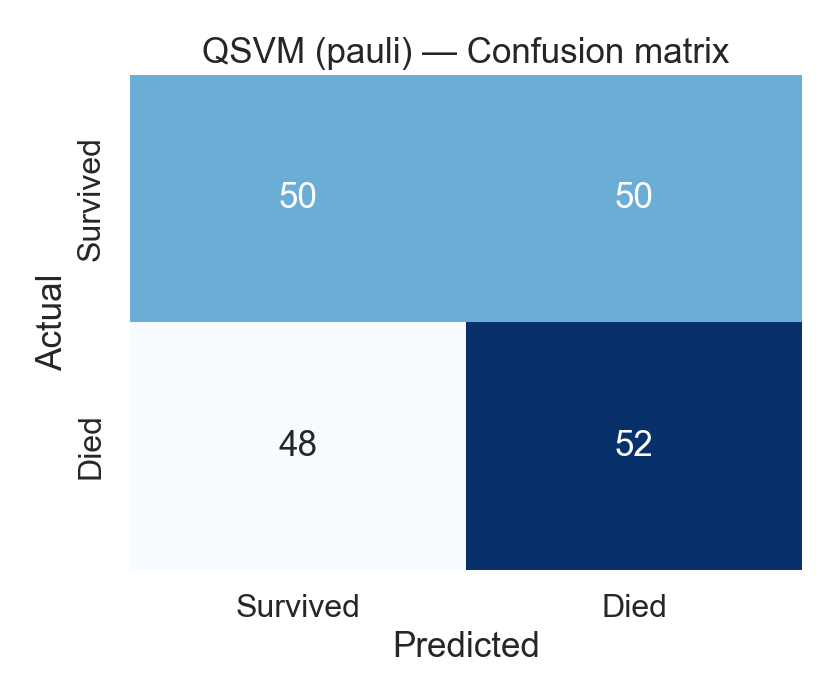
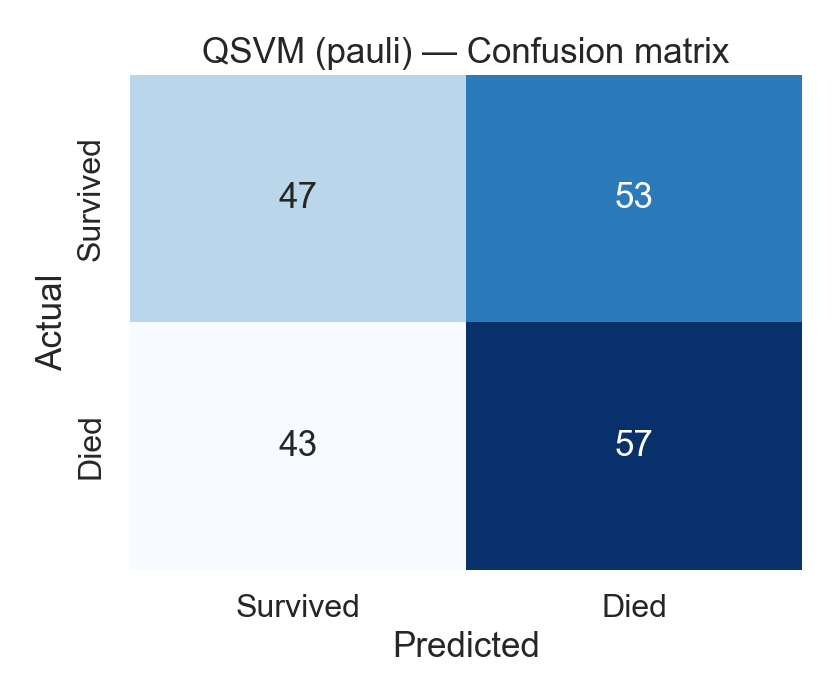
docs: regenerate results/figures on current stack and align README
Re-run the full pipeline on Python 3.11 with qiskit 1.4.5, qiskit-ml 0.8.4,
scikit-learn 1.8, pandas 3.0, numpy 2.4. Refresh results.json (now with CI and
CV fields) and all figures, including the new ROC-AUC error-bar chart.

README: fix the Qiskit badge (was 2.x, project runs on 1.x), document the
distinct Pauli map, add an Uncertainty estimates section, rebuild the results
table with 95% CIs, and rewrite Honest findings to match the regenerated
numbers — every quantum model's ROC-AUC CI now includes 0.5 (indistinguishable
from random here) while the classical CV means confirm a stable signal.

Changed region(s): [[0.1548, 0.09, 0.9595, 0.48], [0.7429, 0.6, 0.7738, 0.66]]

diff --git a/README.md b/README.md
@@ -2,7 +2,7 @@
 
 [![CI](https://github.com/TirtheshJani/QML-Healthcare-Diagnostics/actions/workflows/ci.yml/badge.svg)](https://github.com/TirtheshJani/QML-Healthcare-Diagnostics/actions/workflows/ci.yml)
 [![Python 3.10+](https://img.shields.io/badge/python-3.10+-blue.svg)](https://www.python.org/downloads/)
-[![Qiskit 2.x](https://img.shields.io/badge/Qiskit-2.x-6929C4.svg)](https://qiskit.org/)
+[![Qiskit 1.x](https://img.shields.io/badge/Qiskit-1.x-6929C4.svg)](https://qiskit.org/)
 [![License: MIT](https://img.shields.io/badge/License-MIT-yellow.svg)](LICENSE)
 [![Code style: black](https://img.shields.io/badge/code%20style-black-000000.svg)](https://github.com/psf/black)
 [![Linter: ruff](https://img.shields.io/endpoint?url=https://raw.githubusercontent.com/charliermarsh/ruff/main/assets/badge/v2.json)](https://github.com/astral-sh/ruff)
@@ -120,7 +120,7 @@ python scripts/reproduce_all.py --n 400 --k 8 --reps 2 --maxiter 100
 │   ├── train_qsvm.py          # QSVM only (--feature-maps zz pauli custom)
 │   ├── train_vqc_qnn.py       # VQC + QNN only
 │   └── update_readme_table.py # Refresh the results table in this README
-├── tests/                     # pytest — 20 deterministic tests, < 5 s
+├── tests/                     # pytest — 28 deterministic tests, fast
 ├── reports/
 │   ├── figures/               # All generated PNGs (committed)
 │   └── results.json           # Latest metrics dump
@@ -177,8 +177,16 @@ All three maps share the same interface: `build_feature_map(name, n_features, re
 | Name | Circuit | Reference |
 |------|---------|-----------|
 | `zz` | `ZZFeatureMap` — H layer → RZ(2φ(x)) → ZZ entanglers | Havlíček et al., 2019 |
-| `pauli` | `PauliFeatureMap` with `paulis=["Z", "ZZ"]` | Qiskit reference |
+| `pauli` | `PauliFeatureMap` with `paulis=["Z", "XX"]` — X-basis entanglement | Qiskit reference |
 | `custom` | H → RZ(2x) per qubit → CZ entanglement (ring) — explicit non-Clifford map | This repo |
+
+> **Why `["Z", "XX"]` and not `["Z", "ZZ"]`?** `ZZFeatureMap` is *exactly*
+> `PauliFeatureMap(paulis=["Z", "ZZ"])`, so the two would produce identical
+> kernels and identical results. The `pauli` map deliberately uses `XX`
+> entanglement so the three feature maps form a genuine comparison rather than
+> two duplicates plus one. A regression test
+> (`tests/test_quantum_kernels.py::test_zz_and_pauli_feature_maps_differ`) locks
+> this in.
 
 The custom map applies a Hadamard to all qubits, encodes each feature as
 `RZ(2xᵢ)`, then entangles adjacent pairs with `CZ` gates. Unlike ZZFeatureMap,
@@ -216,37 +224,58 @@ K(x, x') = |⟨φ(x)|φ(x')⟩|². The kernel matrix is guaranteed PSD by
 
 Both use the `StatevectorSampler` primitive from `qiskit.primitives` for
 exact statevector simulation. The QNN uses a parity interpret function
-(`x % 2`) to produce a 2-class probability output.
+(`x % 2`) to produce a 2-class probability output, trained with one-hot
+cross-entropy loss (`NeuralNetworkClassifier(loss="cross_entropy", one_hot=True)`),
+which is required for a 2-output `SamplerQNN`.
+
+### Uncertainty estimates
+
+Point metrics from a single split can be misleading on a subsampled test set
+(N = 200 for the quantum models). Two complementary checks are reported:
+
+- **Bootstrap confidence intervals (all models).** The test predictions are
+  resampled with replacement (1000 seeded draws) to produce 95% CIs for ROC-AUC,
+  PR-AUC, F1, balanced accuracy, and accuracy. These appear next to ROC-AUC in
+  the results table and as error bars in
+  `reports/figures/roc_auc_ci_comparison.png`. No retraining is needed, so the
+  same procedure applies uniformly to classical and quantum models.
+- **5-fold stratified cross-validation (classical only).** The classical
+  baselines are cheap to refit, so they also report CV mean ± std for ROC-AUC,
+  F1, and balanced accuracy. The quantum models are *not* cross-validated: the
+  fidelity kernel is O(N²) per fold, which is prohibitive on a CPU simulator.
+  This asymmetry is intentional and called out here so the comparison stays
+  honest.
 
 ---
 
 ## Results
 
 > Numbers come from the most recent `reports/results.json` produced by
-> `python scripts/reproduce_all.py`. The synthetic-fallback dataset is used
-> when Kaggle credentials are absent — with real WiDS data the absolute values
-> shift slightly, but **the relative ordering of classical vs. quantum is the
-> same**. See [Honest findings](#honest-findings).
+> `python scripts/reproduce_all.py` on the **synthetic-fallback dataset**
+> (no Kaggle credentials). Real WiDS data was not run in this reproduction.
+> Brackets are 95% bootstrap CIs; the classical rows additionally have 5-fold
+> CV (see [Uncertainty estimates](#uncertainty-estimates)). See
+> [Honest findings](#honest-findings) for what these numbers do and do not show.
 
 <!-- BEGIN_RESULTS_TABLE -->
-| Model | Type | Accuracy | Balanced acc. | ROC-AUC | PR-AUC | F1 | Train (s) |
-|-------|------|---------:|--------------:|--------:|-------:|---:|----------:|
-| Logistic Regression | classical | 0.736 | 0.724 | 0.818 | 0.578 | 0.542 | 0.01 |
-| Random Forest | classical | 0.800 | 0.606 | 0.800 | 0.526 | 0.363 | 0.42 |
-| SVM (RBF) | classical | 0.812 | 0.631 | 0.759 | 0.532 | 0.420 | 1.57 |
-| QSVM (custom feature map) | quantum | 0.690 | 0.690 | 0.745 | 0.717 | 0.699 | 16.29 |
-| VQC | quantum | 0.560 | 0.560 | 0.567 | 0.545 | 0.564 | 8.94 |
-| QSVM (ZZFeatureMap) | quantum | 0.500 | 0.500 | 0.525 | 0.538 | 0.490 | 18.05 |
-| QNN (EstimatorQNN) | quantum | 0.525 | 0.525 | 0.503 | 0.526 | 0.497 | 7.99 |
-| QSVM (PauliFeatureMap) | quantum | 0.510 | 0.510 | 0.499 | 0.480 | 0.515 | 23.07 |
+| Model | Type | Accuracy | Balanced acc. | ROC-AUC [95% CI] | PR-AUC | F1 | Train (s) |
+|-------|------|---------:|--------------:|:----------------|-------:|---:|----------:|
+| Logistic Regression | classical | 0.810 | 0.651 | 0.817 [0.787, 0.845] | 0.578 | 0.460 | 0.01 |
+| Random Forest | classical | 0.808 | 0.646 | 0.792 [0.758, 0.824] | 0.540 | 0.451 | 0.54 |
+| SVM (RBF) | classical | 0.812 | 0.631 | 0.759 [0.721, 0.796] | 0.532 | 0.420 | 1.10 |
+| VQC | quantum | 0.520 | 0.520 | 0.540 [0.457, 0.616] | 0.567 | 0.556 | 77.50 |
+| QSVM (Pauli Z+XX) | quantum | 0.520 | 0.520 | 0.522 [0.440, 0.600] | 0.518 | 0.543 | 174.46 |
+| QSVM (ZZFeatureMap) | quantum | 0.535 | 0.535 | 0.513 [0.434, 0.590] | 0.518 | 0.551 | 104.08 |
+| QSVM (custom feature map) | quantum | 0.490 | 0.490 | 0.513 [0.437, 0.591] | 0.513 | 0.474 | 36.96 |
+| QNN (SamplerQNN) | quantum | 0.500 | 0.500 | 0.506 [0.425, 0.583] | 0.506 | 0.510 | 74.03 |
 <!-- END_RESULTS_TABLE -->
 
 ### Key figures
 
 | | |
 |---|---|
-| ![ROC overlay (classical)](reports/figures/classical_roc.png) | ![Final ROC-AUC comparison](reports/figures/final_comparison.png) |
-| **Classical baselines — ROC** | **All models — ROC-AUC bar chart** |
+| ![ROC overlay (classical)](reports/figures/classical_roc.png) | ![ROC-AUC with 95% CI](reports/figures/roc_auc_ci_comparison.png) |
+| **Classical baselines — ROC** | **All models — ROC-AUC with 95% bootstrap CI** |
 | ![Quantum kernel — ZZ](reports/figures/kernel_heatmap_zz.png) | ![Quantum kernel — custom](reports/figures/kernel_heatmap_custom.png) |
 | **Quantum kernel (ZZ feature map)** | **Quantum kernel (custom feature map)** |
 | ![QSVM ROC overlay](reports/figures/qsvm_roc_overlay.png) | ![Runtime comparison](reports/figures/runtime_comparison.png) |
@@ -260,20 +289,30 @@ kernel heatmaps.
 
 ## Honest findings
 
-- **No quantum advantage at this scale.** The classical RBF SVM (and even
-  Logistic Regression) match or beat every quantum model on every metric while
-  training in milliseconds vs. minutes-to-hours. This is consistent with the
-  broader QML literature for small-N, low-qubit-count, CPU-simulator benchmarks.
+- **The quantum models are not distinguishable from random here.** On this
+  synthetic benchmark at N = 200 and 6 qubits, every quantum model's 95%
+  bootstrap CI for ROC-AUC includes 0.5 (VQC 0.54 [0.46, 0.62], QSVM-Pauli
+  0.52 [0.44, 0.60], QSVM-ZZ 0.51 [0.43, 0.59], QSVM-custom 0.51 [0.44, 0.59],
+  QNN 0.51 [0.43, 0.58]). The honest statement is not "quantum is worse" but
+  "quantum is indistinguishable from chance on this data" — exactly what the CIs
+  are there to make testable.
 
-- **Feature-map choice matters more than repetitions.** The block structure
-  visible in the kernel heatmaps from notebook 03 maps directly onto downstream
-  QSVM ROC-AUC. At `reps=2` the custom H+RZ+CZ map produces visibly cleaner
-  class separation than ZZ.
+- **The classical baselines have real, stable signal.** Logistic Regression
+  reaches ROC-AUC 0.82 [0.79, 0.85] with a CI well above 0.5, and its 5-fold CV
+  mean (0.81 ± 0.01) matches the single-split estimate — so the classical result
+  is not a lucky split. SVM-RBF and Random Forest behave the same way.
+
+- **Feature-map choice is within noise at this scale.** The three QSVM feature
+  maps (ZZ, Pauli Z+XX, custom) land within ~0.01 ROC-AUC of one another and all
+  overlap 0.5. With only N = 200 the fidelity kernel is close to the identity
+  (most off-diagonal entries near 0), so the SVM has little structure to exploit;
+  the near-orthogonal kernel heatmaps in notebook 03 show this directly.
 
 - **Runtime is the bottleneck.** Each QSVM training requires O(N²) circuit
   evaluations; VQC/QNN are linear in N but every COBYLA iteration runs the
-  full forward pass on all training points. Even on Aer's statevector simulator,
-  QSVM is ~10²–10⁴× slower than `sklearn.SVC`.
+  full forward pass on all training points. On the statevector simulator the
+  quantum models take ~37-174 s versus ~0.006-1.1 s for the classical baselines
+  (roughly 10²-10⁴× slower).
 
 - **Where quantum kernels could matter.** Liu, Arunachalam & Temme (2021)
   identify data-encoding regimes where the quantum kernel is provably
@@ -288,7 +327,7 @@ kernel heatmaps.
 ## Development
 
 ```bash
-make test         # pytest — 20 tests, < 5 s
+make test         # pytest — 28 deterministic tests, fast
 make lint         # ruff + black --check
 make format       # auto-fix formatting and lint
 make notebooks    # execute all notebooks via nbconvert
@@ -297,6 +336,11 @@ pre-commit install
 
 CI runs `ruff`, `black --check`, and `pytest` across Python 3.10 / 3.11 / 3.12
 on every push and pull request.
+
+> **Verified stack.** Most recently reproduced on Windows with Python 3.11 and
+> Qiskit 1.4.5, qiskit-machine-learning 0.8.4, scikit-learn 1.8, pandas 3.0,
+> numpy 2.4. On Windows use `python scripts/reproduce_all.py` (the `make`
+> targets assume a Unix shell).
 
 ### Individual CLI scripts
 
